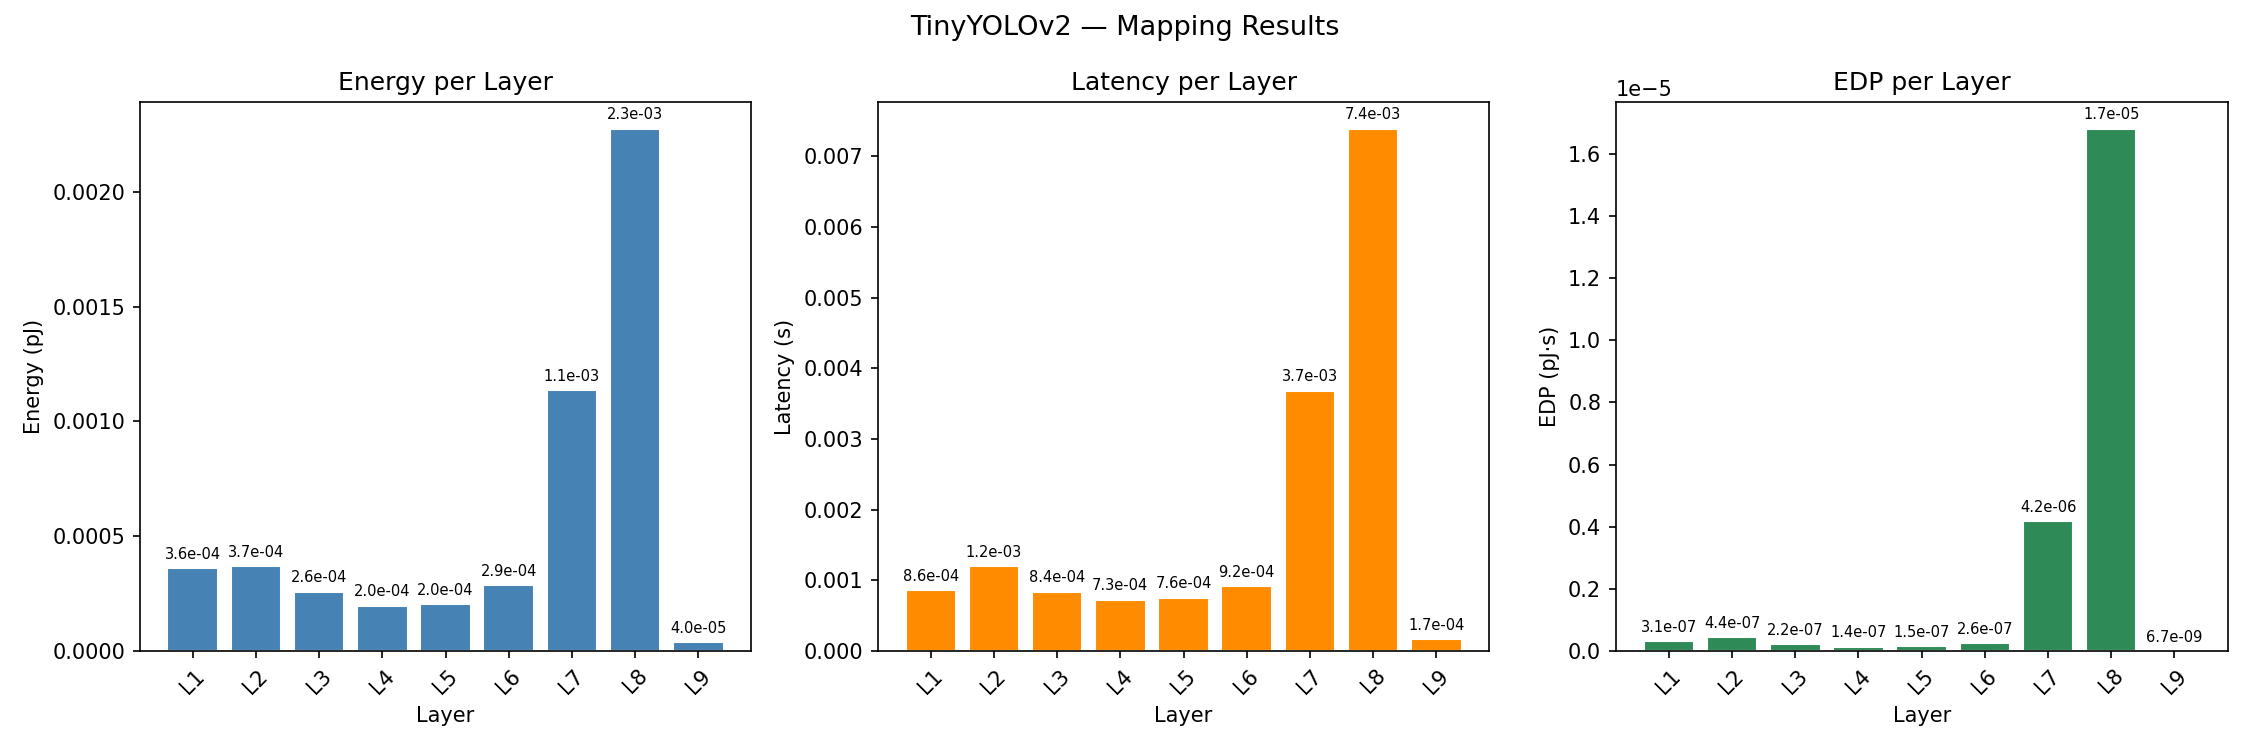
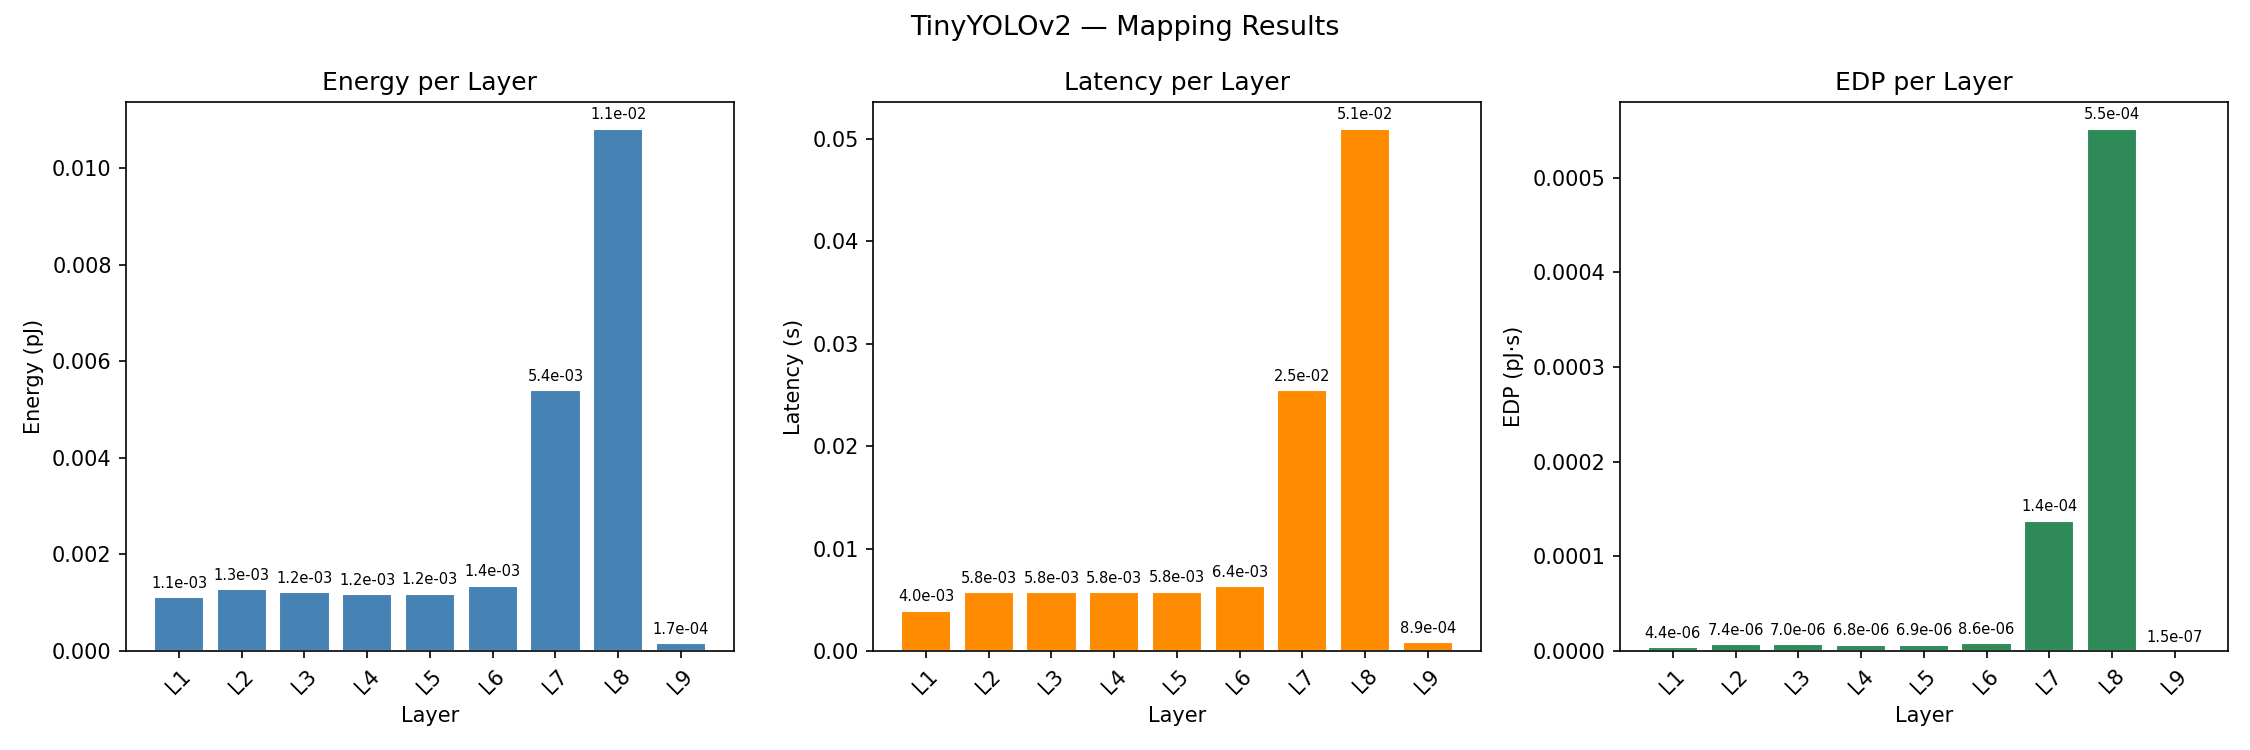
Fixed energy graph

diff --git a/new_workspace/scripts/sweep_fanout.py b/new_workspace/scripts/sweep_fanout.py
@@ -1,0 +1,138 @@
+import accelforge as af
+from pathlib import Path
+import matplotlib.pyplot as plt
+import matplotlib.ticker as ticker
+
+WORKSPACE    = Path(__file__).resolve().parent.parent
+WORKLOAD_SRC = str(WORKSPACE / "workloads" / "tiny_yolo_test.yaml")
+ARCH_SRC     = str(WORKSPACE / "arches"    / "custom_accelerator_sweep_NON_IDEAL.yaml")
+
+LAYERS   = ["L1", "L2", "L3", "L4", "L5", "L6", "L7", "L8", "L9"]
+FANOUTS  = [1, 2, 4, 8, 16, 32, 64]
+FREQ_GHZ = 1.0
+GLB_KB   = 1024
+
+def min_edp_filter(df):
+    return (df["Total<SEP>energy"] * df["Total<SEP>latency"]).argmin()
+
+def extract_metrics(data, layers):
+    cols = data.columns.tolist()
+    energy  = sum(data[[c for c in cols if c.startswith(f"{l}<SEP>energy<SEP>")]].sum(axis=1).values[0] for l in layers)
+    latency = sum(data[[c for c in cols if c.startswith(f"{l}<SEP>latency<SEP>")]].max(axis=1).values[0] for l in layers)
+    return energy, latency, energy * latency
+
+# ── Sweep ────────────────────────────────────────────────────────────────────
+results = {}   # fanout -> {n_pes, total_energy, total_latency, total_edp, per_layer}
+
+for fanout in FANOUTS:
+    n_pes = fanout * fanout
+    print(f"Running fanout={fanout} ({n_pes} PEs)...", end=" ", flush=True)
+    try:
+        spec = af.Spec.from_yaml(ARCH_SRC, WORKLOAD_SRC,
+                                 jinja_parse_data={
+                                     "GLB_KB"  : GLB_KB,
+                                     "FREQ_GHZ": FREQ_GHZ,
+                                     "FANOUT_X": fanout,
+                                     "FANOUT_Y": fanout,
+                                 })
+        mappings = spec.map_workload_to_arch()
+        data     = mappings.data.iloc[[min_edp_filter(mappings.data)]]
+
+        # Add this right after getting `data` in your sweep script
+        for layer in LAYERS:
+            leak_cols = [c for c in data.columns if f"{layer}<SEP>energy" in c and "leak" in c]
+            if leak_cols:
+                total_leak = data[leak_cols].sum(axis=1).values[0]
+                print(f"{layer} leak energy: {total_leak:.4e}")
+            else:
+                print(f"{layer}: NO leak columns found")
+
+        total_energy  = data["Total<SEP>energy"].values[0]
+        total_latency = data["Total<SEP>latency"].values[0]
+        total_edp     = total_energy * total_latency
+
+        per_layer = {}
+        for layer in LAYERS:
+            e_cols = [c for c in data.columns if c.startswith(f"{layer}<SEP>energy<SEP>")]
+            l_cols = [c for c in data.columns if c.startswith(f"{layer}<SEP>latency<SEP>")]
+            e = data[e_cols].sum(axis=1).values[0]
+            l = data[l_cols].max(axis=1).values[0]
+            per_layer[layer] = {"energy": e, "latency": l, "edp": e * l}
+
+        results[fanout] = {
+            "n_pes"        : n_pes,
+            "total_energy" : total_energy,
+            "total_latency": total_latency,
+            "total_edp"    : total_edp,
+            "per_layer"    : per_layer,
+        }
+        print(f"EDP={total_edp:.3e} pJ·s")
+    except Exception as ex:
+        print(f"FAILED: {ex}")
+
+# ── Print table ───────────────────────────────────────────────────────────────
+print(f"\n{'Fanout':<8} {'PEs':>6}  {'Energy (pJ)':>14}  {'Latency (s)':>14}  {'EDP (pJ·s)':>14}")
+print("-" * 64)
+for fanout, r in results.items():
+    print(f"{fanout:<8} {r['n_pes']:>6}  {r['total_energy']:>14.4e}"
+          f"  {r['total_latency']:>14.4e}  {r['total_edp']:>14.4e}")
+
+# ── Plot 1: Total metrics vs PE count ────────────────────────────────────────
+pe_counts = [r["n_pes"]         for r in results.values()]
+energies  = [r["total_energy"]  for r in results.values()]
+latencies = [r["total_latency"] for r in results.values()]
+edps      = [r["total_edp"]     for r in results.values()]
+
+fig, axes = plt.subplots(1, 3, figsize=(15, 5))
+fig.suptitle(f"TinyYOLOv2 — Sweep over PE Array Size (GLB={GLB_KB}KB, {FREQ_GHZ}GHz)", fontsize=12)
+
+def total_plot(ax, y, title, ylabel, color):
+    ax.plot(pe_counts, y, marker="o", color=color, linewidth=2)
+    ax.set_title(title)
+    ax.set_xlabel("Number of PEs (Fanout² )")
+    ax.set_ylabel(ylabel)
+    ax.set_xscale("log", base=2)
+    ax.xaxis.set_major_formatter(ticker.FuncFormatter(lambda x, _: f"{int(x)}"))
+    ax.grid(True, which="both", linestyle="--", alpha=0.4)
+    for x, y_val in zip(pe_counts, y):
+        ax.annotate(f"{y_val:.2e}", (x, y_val), textcoords="offset points",
+                    xytext=(0, 8), ha="center", fontsize=7)
+
+total_plot(axes[0], energies,  "Total Energy vs PEs",  "Energy (pJ)",  "steelblue")
+total_plot(axes[1], latencies, "Total Latency vs PEs", "Latency (s)",  "darkorange")
+total_plot(axes[2], edps,      "Total EDP vs PEs",     "EDP (pJ·s)",  "seagreen")
+
+plt.tight_layout()
+out = WORKSPACE / "outputs"
+out.mkdir(exist_ok=True)
+plt.savefig(out / "sweep_totals.png", dpi=150)
+print(f"\nSaved: {out / 'sweep_totals.png'}")
+
+# ── Plot 2: Per-layer EDP breakdown as stacked bar per fanout ────────────────
+fig, axes = plt.subplots(1, 3, figsize=(16, 6))
+fig.suptitle("Per-Layer Breakdown by PE Array Size", fontsize=12)
+
+colors = plt.cm.tab10.colors
+fanout_labels = [f"{f}×{f}\n({f*f} PEs)" for f in results.keys()]
+
+for ax, metric, ylabel, title in [
+    (axes[0], "energy",  "Energy (pJ)",  "Energy per Layer"),
+    (axes[1], "latency", "Latency (s)",  "Latency per Layer"),
+    (axes[2], "edp",     "EDP (pJ·s)",  "EDP per Layer"),
+]:
+    bottoms = [0.0] * len(results)
+    for j, layer in enumerate(LAYERS):
+        values = [r["per_layer"][layer][metric] for r in results.values()]
+        ax.bar(fanout_labels, values, bottom=bottoms, label=layer,
+               color=colors[j], edgecolor="white")
+        bottoms = [b + v for b, v in zip(bottoms, values)]
+    ax.set_title(title)
+    ax.set_xlabel("PE Array Size")
+    ax.set_ylabel(ylabel)
+    ax.legend(fontsize=7, loc="upper right")
+
+plt.tight_layout()
+plt.savefig(out / "sweep_per_layer.png", dpi=150)
+print(f"Saved: {out / 'sweep_per_layer.png'}")
+
+plt.show()

diff --git a/new_workspace/scripts/test_mapping.py b/new_workspace/scripts/test_mapping.py
@@ -1,15 +1,31 @@
 import accelforge as af
 from pathlib import Path
+import os
 
-WORKSPACE    = Path(__file__).resolve().parent.parent
-WORKLOAD_SRC = str(WORKSPACE / "workloads" / "tiny_yolo_test.yaml")
-ARCH_SRC     = str(WORKSPACE / "arches"    / "custom_accelerator_sweep.yaml")
+# WORKSPACE    = Path(__file__).resolve().parent.parent
+# WORKLOAD_SRC = str(WORKSPACE / "workloads" / "tiny_yolo_test.yaml")
+# ARCH_SRC     = str(WORKSPACE / "arches"    / "custom_accelerator_sweep.yaml")
 
-spec     = af.Spec.from_yaml(ARCH_SRC, WORKLOAD_SRC,
-                              jinja_parse_data={"GLB_KB"   :1024,
-                                                "FREQ_GHZ" : 1.0,
-                                                "FANOUT_X" : 64,
-                                                "FANOUT_Y" : 64,})
-mappings = spec.map_workload_to_arch()
-print(mappings.data.columns.tolist())
-print(mappings)
+# spec     = af.Spec.from_yaml(ARCH_SRC, WORKLOAD_SRC,
+#                               jinja_parse_data={"GLB_KB"   :1024,
+#                                                 "FREQ_GHZ" : 1.0,
+#                                                 "FANOUT_X" : 64,
+#                                                 "FANOUT_Y" : 64,})
+# mappings = spec.map_workload_to_arch()
+# print(mappings.data.columns.tolist())
+# print(mappings)
+
+
+# print(dir(af))
+# List available component models
+print("simba")
+with open("/Users/kreyesp/Desktop/6.5930/Final Project/Edge-Compute-Accelerator/.venv/lib/python3.13/site-packages/examples/arches/simba.yaml") as f:
+    print(f.read())
+
+print("eyeriss")
+with open("/Users/kreyesp/Desktop/6.5930/Final Project/Edge-Compute-Accelerator/.venv/lib/python3.13/site-packages/examples/arches/eyeriss.yaml") as f:
+    print(f.read())
+
+print("component annotated")
+with open("/Users/kreyesp/Desktop/6.5930/Final Project/Edge-Compute-Accelerator/.venv/lib/python3.13/site-packages/examples/misc/component_annotated.yaml") as f:
+    print(f.read())

diff --git a/new_workspace/scripts/plot_edp.py b/new_workspace/scripts/plot_edp.py
@@ -5,8 +5,8 @@ import matplotlib.pyplot as plt
 WORKSPACE    = Path(__file__).resolve().parent.parent
 WORKLOAD_SRC = str(WORKSPACE / "workloads" / "tiny_yolo_test.yaml")
 ARCH_SRC     = str(WORKSPACE / "arches"    / "custom_accelerator_sweep.yaml")
-FANOUT_X = 64
-FANOUT_Y = 64
+FANOUT_X = 8
+FANOUT_Y = 8
 
 LAYERS = ["L1", "L2", "L3", "L4", "L5", "L6", "L7", "L8", "L9"]
 
